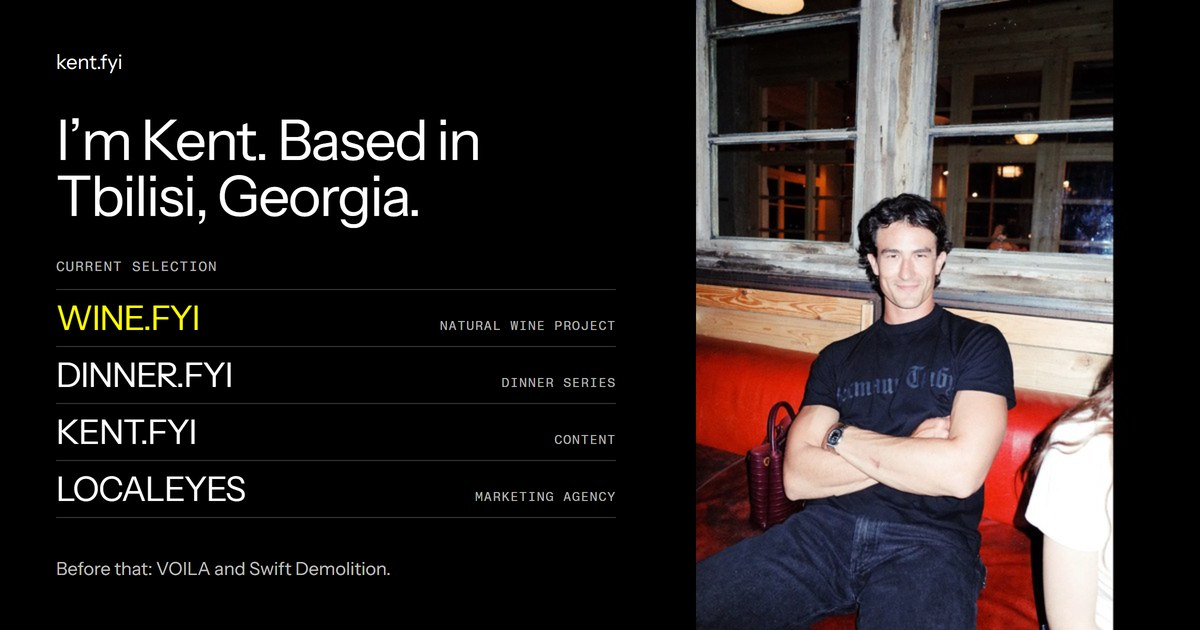
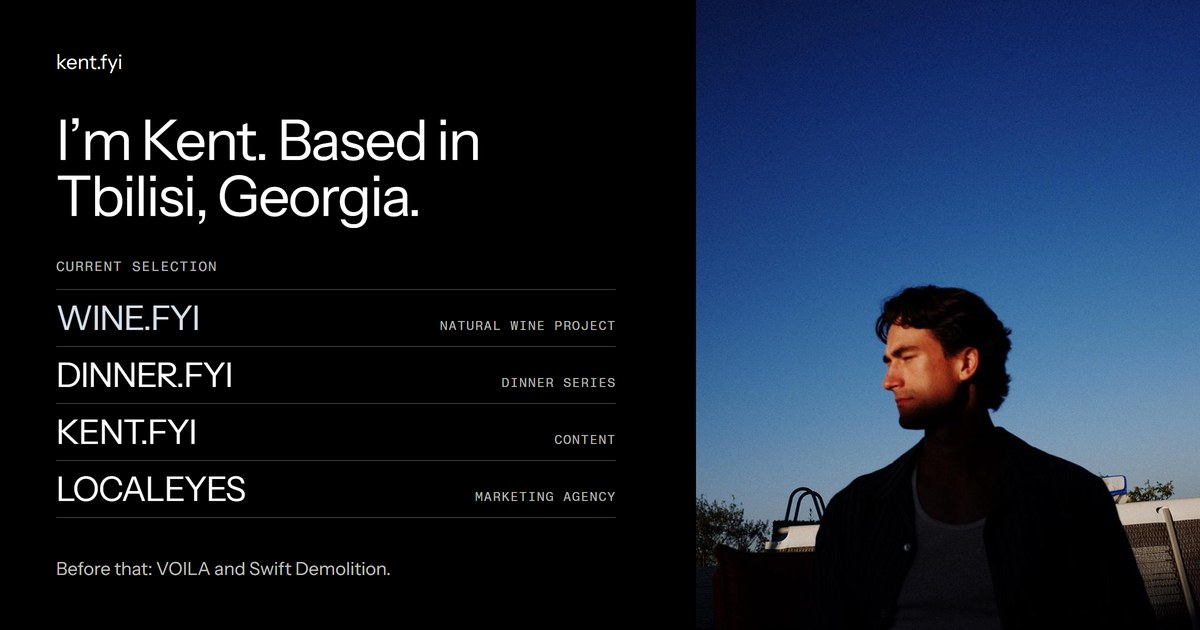
Kent's picks: the pale blue-grey accent, his sky photo beside the intro, and pages for the wine and the dinners
- Accent #d7e0eb in place of yellow
- The intro photo is Kent against a blue sky; the share image follows
- /wine and /dinner: what each is, the particulars, a few photos. Details Kent hasn't sent yet stay off the page until he does
- WINE.FYI and DINNER.FYI in the index link to their pages

diff --git a/src/lib/kent.ts b/src/lib/kent.ts
@@ -16,7 +16,7 @@ export type Photo = { src: string; alt: string; position?: string };
 
 export const INTRO = "I’m Kent. I’m currently based in Tbilisi, Georgia, working on various projects.";
 /** beside the introduction, until a project is pointed at */
-export const INTRO_PHOTO: Photo = { src: "/kent/photos/kent-booth.webp", alt: "Kent in a black T-shirt, arms crossed, in a red booth", position: "50% 30%" };
+export const INTRO_PHOTO: Photo = { src: "/kent/photos/kent-sky.webp", alt: "Kent in low evening sun against a deep blue sky", position: "56% 50%" };
 
 export type Project = {
   id: string;
@@ -28,6 +28,8 @@ export type Project = {
   /** where to explore it */
   links: Link[];
   photo: Photo;
+  /** its own page on this site, if it has one */
+  page?: string;
 };
 
 /** the current selection, in Kent's order */
@@ -37,16 +39,24 @@ export const CURRENT: Project[] = [
     name: "WINE.FYI",
     kind: "Natural wine project",
     what: "A natural white wine. Fresh, acidic and white, like the label says.",
-    links: [{ label: "wine.fyi", href: "https://wine.fyi" }],
+    links: [
+      { label: "About the wine", href: "/wine" },
+      { label: "wine.fyi", href: "https://wine.fyi" },
+    ],
     photo: { src: "/kent/photos/wine.webp", alt: "A crate of white wine bottles with lilac caps, one labelled Fresh Acidic White" },
+    page: "/wine",
   },
   {
     id: "dinner",
     name: "DINNER.FYI",
     kind: "Dinner series",
     what: "In 18th century Birmingham, the Lunar Society met for dinner once a month: builders, inventors and tinkerers at one table, on the night nearest the full moon, so they could ride home by its light.",
-    links: [{ label: "dinner.fyi", href: "https://dinner.fyi" }],
+    links: [
+      { label: "About the dinners", href: "/dinner" },
+      { label: "dinner.fyi", href: "https://dinner.fyi" },
+    ],
     photo: { src: "/kent/photos/dinner.webp", alt: "A painting of Galileo showing his telescope to the Doge of Venice and his court, by moonlight" },
+    page: "/dinner",
   },
   {
     id: "content",
@@ -204,4 +214,98 @@ export const ARCHIVE = {
 
 export const CONTACT = {
   line: "For partnerships, collaborations, speaking arrangements and modeling.",
+};
+
+/*
+  The project pages: a title, what it is, then the particulars, and a few photographs. A value of null is
+  one Kent hasn't given yet. It stays off the page until he does, so nothing on these pages is a guess.
+*/
+export type Detail = { label: string; value: string | null; href?: string };
+export type PageSection = { id: string; title: string; aside?: string; body?: string | null; details?: Detail[] };
+export type ProjectPageData = {
+  id: string;
+  name: string;
+  kind: string;
+  /** what it is, a paragraph each */
+  description: string[];
+  links: Link[];
+  sections: PageSection[];
+  photos: Photo[];
+};
+
+const wine = CURRENT[0];
+const dinner = CURRENT[1];
+
+export const WINE_PAGE: ProjectPageData = {
+  id: wine.id,
+  name: wine.name,
+  kind: wine.kind,
+  description: [wine.what],
+  links: [{ label: "wine.fyi", href: "https://wine.fyi" }],
+  sections: [
+    {
+      id: "the-wine",
+      title: "The wine",
+      details: [
+        { label: "Style", value: "Natural white" },
+        { label: "Vintage", value: null },
+        { label: "Release date", value: null },
+        { label: "Grape", value: "Tsolikouri" },
+      ],
+    },
+    { id: "the-grape", title: "The grape", body: null },
+    { id: "where-to-buy", title: "Where to buy", body: null },
+  ],
+  photos: [wine.photo, { src: "/kent/photos/vines.webp", alt: "Kent and a friend under autumn grapevines, in red work gloves", position: "45% 55%" }],
+};
+
+export const DINNER_PAGE: ProjectPageData = {
+  id: dinner.id,
+  name: dinner.name,
+  kind: dinner.kind,
+  description: [
+    dinner.what,
+    "We’re restarting it: a monthly dinner for builders and experimenters early in their journeys. Ten to fifteen people, highly curated, and one remarkable guest. People around the table have been working on reversing brain ageing, building rocket ships and discovering new materials with AI.",
+  ],
+  links: [{ label: "dinner.fyi", href: "https://dinner.fyi" }],
+  sections: [
+    {
+      id: "format",
+      title: "The format",
+      details: [
+        { label: "Invitation", value: "Invite only" },
+        { label: "How often", value: "Monthly" },
+        { label: "At the table", value: "Ten to fifteen people, and one remarkable guest" },
+      ],
+    },
+    {
+      id: "no-1",
+      title: "No. 1",
+      body: null,
+      details: [
+        { label: "Date", value: null },
+        { label: "Place", value: null },
+        { label: "Guest", value: null },
+      ],
+    },
+    {
+      id: "no-2",
+      title: "No. 2",
+      aside: "Upcoming",
+      details: [
+        { label: "Date", value: "The next full moon" },
+        { label: "Place", value: null },
+        { label: "Guest", value: null },
+      ],
+    },
+  ],
+  photos: [dinner.photo],
+};
+
+/** the site's share card, for pages that set their own share title */
+export const SHARE_CARD = {
+  url: "/opengraph-image.jpg",
+  width: 1200,
+  height: 630,
+  alt: "kent.fyi. I'm Kent, based in Tbilisi, Georgia. Current selection: WINE.FYI, DINNER.FYI, KENT.FYI, LocalEyes. Before that, VOILA and Swift Demolition.",
 };

diff --git a/src/components/kent/project-page.tsx b/src/components/kent/project-page.tsx
@@ -1,0 +1,93 @@
+import Image from "next/image";
+import Link from "next/link";
+import type { ProjectPageData } from "@/lib/kent";
+import { Out, SectionHead } from "./links";
+import { PhotoStrip } from "./photo-strip";
+import { SiteFooter } from "./site-footer";
+import { SiteHeader } from "./site-header";
+
+/**
+ * A project's own page, kept simple: the title and what it is, the particulars in sections, and a few
+ * photographs. On a wide screen the first photograph stays beside the text as you read; on a phone it sits
+ * under the title.
+ */
+export function ProjectPage({ page }: { page: ProjectPageData }) {
+  const [lead, ...rest] = page.photos;
+  // what Kent hasn't given yet stays off the page: empty rows go, and a section with nothing left goes too
+  const sections = page.sections
+    .map((s) => ({ ...s, details: s.details?.filter((d) => d.value !== null) }))
+    .filter((s) => (s.details?.length ?? 0) > 0 || s.body);
+
+  return (
+    <>
+      <SiteHeader />
+      <main id="main" className="px-(--m) pt-[clamp(28px,5svh,64px)] pb-[clamp(72px,9vw,140px)]">
+        <p className="t-small">
+          <Link href={`/#${page.id}`} className="text-fg/70 transition-colors hover:text-accent">
+            <span aria-hidden>&larr;&nbsp;</span>All projects
+          </Link>
+        </p>
+
+        <div className="mt-[clamp(28px,4vw,56px)] grid grid-cols-1 gap-x-(--g) gap-y-10 lg:grid-cols-12">
+          <header className="lg:col-span-7 lg:row-start-1">
+            <p className="t-label text-fg/65">{page.kind}</p>
+            <h1 className="t-display mt-2 animate-[rise_900ms_var(--ease-out-expo)_both]">{page.name}</h1>
+            <div className="t-lead mt-6 max-w-[56ch] space-y-4 text-fg/85">
+              {page.description.map((d) => (
+                <p key={d}>{d}</p>
+              ))}
+            </div>
+            <p className="t-small mt-4 flex flex-wrap gap-x-5 gap-y-1">
+              {page.links.map((l) => (
+                <Out key={l.href} href={l.href}>
+                  {l.label}
+                </Out>
+              ))}
+            </p>
+          </header>
+
+          {lead && (
+            <div className="lg:col-span-4 lg:col-start-9 lg:row-span-2 lg:row-start-1">
+              <div className="relative aspect-[4/5] overflow-hidden lg:sticky lg:top-6">
+                <Image src={lead.src} alt={lead.alt} fill priority sizes="(min-width: 1024px) 33vw, 100vw" className="object-cover" style={{ objectPosition: lead.position }} />
+              </div>
+            </div>
+          )}
+
+          <div className="flex flex-col gap-[clamp(40px,5vw,72px)] lg:col-span-7 lg:row-start-2 lg:pt-[clamp(16px,3vw,48px)]">
+            {sections.map((s) => (
+              <section key={s.id} id={s.id} aria-labelledby={`${s.id}-title`} className="scroll-mt-6">
+                <SectionHead id={`${s.id}-title`} aside={s.aside}>
+                  {s.title}
+                </SectionHead>
+                {s.details && s.details.length > 0 && (
+                  <dl className="mt-1">
+                    {s.details.map((d) => (
+                      <div key={d.label} className="grid grid-cols-[minmax(7.5em,1fr)_2fr] gap-x-4 border-b border-fg/15 py-3 last:border-b-0">
+                        <dt className="t-label pt-[3px] text-fg/60">{d.label}</dt>
+                        <dd className="t-lead">{d.href ? <Out href={d.href}>{d.value}</Out> : d.value}</dd>
+                      </div>
+                    ))}
+                  </dl>
+                )}
+                {s.body && <p className="t-lead mt-4 max-w-[60ch] text-fg/85">{s.body}</p>}
+              </section>
+            ))}
+
+            {rest.length === 1 && (
+              <Image src={rest[0].src} alt={rest[0].alt} width={2000} height={1322} sizes="(min-width: 1024px) 58vw, 100vw" className="h-auto w-full" />
+            )}
+          </div>
+        </div>
+
+        {rest.length > 1 && (
+          <section aria-labelledby="photos-title" className="mt-[clamp(56px,7vw,104px)]">
+            <SectionHead id="photos-title">Photographs</SectionHead>
+            <PhotoStrip photos={rest} label={`${page.name}, in photographs`} className="mt-6" />
+          </section>
+        )}
+      </main>
+      <SiteFooter />
+    </>
+  );
+}

diff --git a/src/components/kent/photo-strip.tsx b/src/components/kent/photo-strip.tsx
@@ -9,7 +9,7 @@ import { cn } from "@/lib/utils";
 const DWELL = 4500;
 
 /**
- * A row of photographs. From a small tablet up it's a plain grid. On a phone it's a strip you swipe, one
+ * A row of photographs. From a small tablet up it's a plain grid, a column each (two at least). On a phone it's a strip you swipe, one
  * photograph at a time with the next one peeking in, no scrollbar, a thin segment per photograph under it
  * (the one in front fills yellow while it waits), and it moves on by itself every few seconds while it's
  * on screen. A finger on it holds it. Reduced motion: no autoplay.
@@ -104,10 +104,11 @@ export function PhotoStrip({ photos, label, className }: { photos: Photo[]; labe
         }}
         onTouchEnd={() => setHeld(false)}
         onTouchCancel={() => setHeld(false)}
-        className="relative -mx-(--m) flex snap-x snap-mandatory scroll-px-(--m) gap-(--g) overflow-x-auto overscroll-x-contain px-(--m) [scrollbar-width:none] sm:mx-0 sm:grid sm:grid-cols-3 sm:overflow-visible sm:px-0 [&::-webkit-scrollbar]:hidden"
+        style={{ "--n": Math.max(photos.length, 2) } as React.CSSProperties}
+        className="relative -mx-(--m) flex snap-x snap-mandatory scroll-px-(--m) gap-(--g) overflow-x-auto overscroll-x-contain px-(--m) [scrollbar-width:none] sm:mx-0 sm:grid sm:grid-cols-[repeat(var(--n),minmax(0,1fr))] sm:overflow-visible sm:px-0 [&::-webkit-scrollbar]:hidden"
       >
         {photos.map((p) => (
-          <li key={p.src} className="relative aspect-[4/5] w-[78vw] shrink-0 snap-start overflow-hidden sm:w-auto">
+          <li key={p.src} className={cn("relative aspect-[4/5] shrink-0 snap-start overflow-hidden sm:w-auto", photos.length > 1 ? "w-[78vw]" : "w-full")}>
             <Image src={p.src} alt={p.alt} fill sizes="(min-width: 640px) 33vw, 78vw" className="object-cover" style={{ objectPosition: p.position }} />
           </li>
         ))}

diff --git a/src/components/kent/links.tsx b/src/components/kent/links.tsx
@@ -1,11 +1,19 @@
 import type { ReactNode } from "react";
+import Link from "next/link";
 import { cn } from "@/lib/utils";
 
 const style = "underline decoration-1 underline-offset-[4px] transition-colors hover:text-accent hover:decoration-accent";
 
-/** a link to another site, opening in a new tab; an in-page link (#...) stays on the page */
+/** a link to another site, opening in a new tab; a page on this site (/...) or an in-page link (#...) stays here */
 export function Out({ href, children, className }: { href: string; children: ReactNode; className?: string }) {
   if (!href) return <span className={className}>{children}</span>;
+  if (href.startsWith("/")) {
+    return (
+      <Link href={href} className={cn(style, className)}>
+        {children}
+      </Link>
+    );
+  }
   if (href.startsWith("#") || href.startsWith("mailto:")) {
     return (
       <a href={href} className={cn(style, className)}>

diff --git a/src/components/kent/project-index.tsx b/src/components/kent/project-index.tsx
@@ -2,6 +2,7 @@
 
 import { useState } from "react";
 import Image from "next/image";
+import Link from "next/link";
 import type { Photo, Project } from "@/lib/kent";
 import { cn } from "@/lib/utils";
 import { Out } from "./links";
@@ -42,7 +43,7 @@ export function ProjectIndex({ projects, fallback, compact = false, children }: 
                       lit ? "text-accent" : active ? "text-fg/40" : "text-fg",
                     )}
                   >
-                    {p.name}
+                    {p.page ? <Link href={p.page}>{p.name}</Link> : p.name}
                   </h3>
                   <p className="t-lead mt-4 max-w-[52ch] text-fg/85">{p.what}</p>
                   <p className="t-small mt-3 flex flex-wrap gap-x-5 gap-y-1">

diff --git a/src/app/dinner/page.tsx b/src/app/dinner/page.tsx
@@ -1,0 +1,18 @@
+import type { Metadata } from "next";
+import { ProjectPage } from "@/components/kent/project-page";
+import { DINNER_PAGE, SHARE_CARD as card } from "@/lib/kent";
+
+const title = "DINNER.FYI · kent.fyi";
+const description = DINNER_PAGE.description[1];
+
+export const metadata: Metadata = {
+  title,
+  description,
+  openGraph: { title, description, url: "/dinner", siteName: "kent.fyi", type: "website", locale: "en_US", images: [card] },
+  twitter: { card: "summary_large_image", title, description, images: [card] },
+};
+
+/** DINNER.FYI: the format, No. 1, and the next one */
+export default function Dinner() {
+  return <ProjectPage page={DINNER_PAGE} />;
+}

diff --git a/src/app/wine/page.tsx b/src/app/wine/page.tsx
@@ -1,0 +1,18 @@
+import type { Metadata } from "next";
+import { ProjectPage } from "@/components/kent/project-page";
+import { WINE_PAGE, SHARE_CARD as card } from "@/lib/kent";
+
+const title = "WINE.FYI · kent.fyi";
+const description = WINE_PAGE.description[0];
+
+export const metadata: Metadata = {
+  title,
+  description,
+  openGraph: { title, description, url: "/wine", siteName: "kent.fyi", type: "website", locale: "en_US", images: [card] },
+  twitter: { card: "summary_large_image", title, description, images: [card] },
+};
+
+/** WINE.FYI: the wine, the grape, and where to buy it */
+export default function Wine() {
+  return <ProjectPage page={WINE_PAGE} />;
+}

diff --git a/src/app/globals.css b/src/app/globals.css
@@ -2,13 +2,13 @@
 
 /*
   kent.fyi. Black throughout, white type, colour from the photographs and the projects themselves, and one
-  accent: pure yellow, for whatever you're pointing at.
+  accent: a pale blue-grey, for whatever you're pointing at.
 */
 
 @theme inline {
   --color-bg: #000000;
   --color-fg: #ffffff;
-  --color-accent: #ffff00;
+  --color-accent: #d7e0eb;
   /* the game at /run keeps its own light palette */
   --color-paper: #ebeae7;
   --color-ink: #0b0e10;
